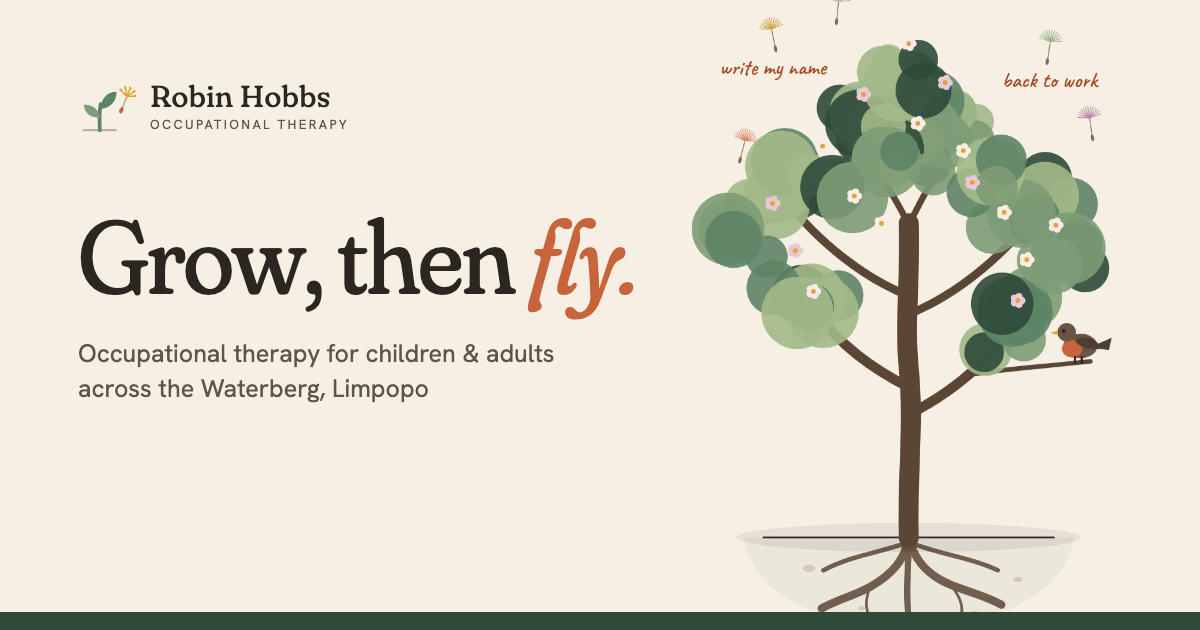
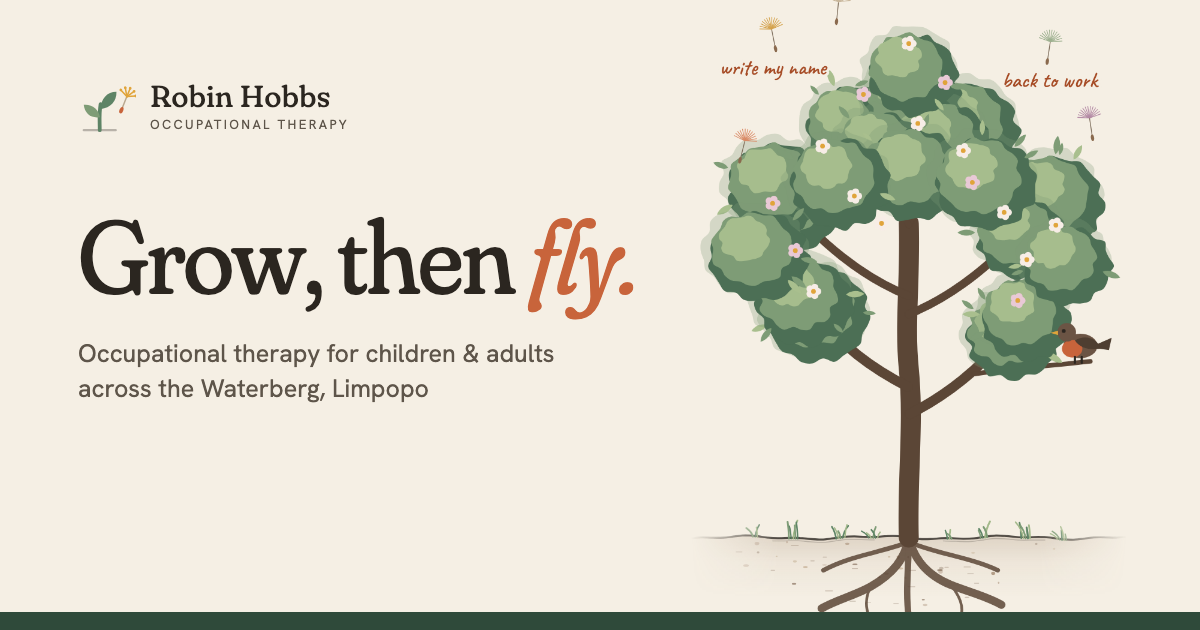
Hero polish: seedling on natural ground, layered foliage, readable seed words
- First frame: the grey soil bowl is replaced by a hand-drawn soil line with
  crumbs and grass tufts; the ground fades out at the edges of the camera
  view. A two-leaf seedling breaks through at scroll 0 and hands over to the
  trunk as it grows.
- Foliage: layered organic clusters in three greens (soft edge, shadow side,
  mid tone, light side) with single leaves on the outline; same silhouette
  and growth timing, no SVG filters.
- Seed words: drawn on a paper-coloured halo and only shown in open sky
  (off the canopy, headline and caption card, fully on screen in the hero).
- 'Scroll to grow' hides once the tree reaches step 6.
- Share image regenerated with the new tree.

Changed region(s): [[0.555, 0.0302, 0.9558, 0.6032], [0.5858, 0.8143, 0.925, 0.8746]]

diff --git a/src/assets/js/home.js b/src/assets/js/home.js
@@ -21,7 +21,56 @@ const progressOf = el => { const r = el.getBoundingClientRect(); return clamp(-r
 /* ===== TREE (same look as before) ===== */
 const branches = [...treeSvg.querySelectorAll('.br')];
 branches.forEach(b => { const L = b.getTotalLength(); b.style.strokeDasharray = L; b.style.strokeDashoffset = L; b.dataset.l = L; });
-const LEAF_COLS = ['#7E9C76', '#5E8466', '#A3B98A', '#2F4A3A'];
+let seed = 7; const rnd = () => (seed = (seed * 9301 + 49297) % 233280) / 233280;
+const f1 = n => n.toFixed(1);
+/* smooth curve through points (Catmull-Rom → cubic Bézier); closed for leaf clusters, open for the ground */
+function smooth(pts, closed) {
+  const n = pts.length, at = i => pts[closed ? (i + n) % n : Math.max(0, Math.min(n - 1, i))];
+  let d = `M${f1(pts[0][0])} ${f1(pts[0][1])}`;
+  for (let i = 0; i < (closed ? n : n - 1); i++) {
+    const p0 = at(i - 1), p1 = at(i), p2 = at(i + 1), p3 = at(i + 2);
+    d += `C${f1(p1[0] + (p2[0] - p0[0]) / 6)} ${f1(p1[1] + (p2[1] - p0[1]) / 6)} ${f1(p2[0] - (p3[0] - p1[0]) / 6)} ${f1(p2[1] - (p3[1] - p1[1]) / 6)} ${f1(p2[0])} ${f1(p2[1])}`;
+  }
+  return closed ? d + 'Z' : d;
+}
+
+/* ===== GROUND: a hand-drawn soil line with crumbs and grass, soil that fades out (no hard edges) ===== */
+const groundY = x => 606 + 1.5 * Math.sin((x - 300) / 23) + .9 * Math.sin((x - 300) / 8.7);
+{
+  const line = []; for (let x = 60; x <= 540; x += 12) line.push([x, groundY(x)]);
+  const top = smooth(line, false);
+  const soil = document.getElementById('soil'), groundTop = document.getElementById('groundTop');
+  mk('path', {d: `${top}L540 722L60 722Z`, fill: 'url(#soilFade)'}, soil);
+  const CRUMB = ['#8A6A4E', '#B59A78', '#6E5440'];
+  for (let i = 0, made = 0; made < 46 && i < 400; i++) {
+    const x = 300 + (rnd() - .5) * 400, y = 611 + rnd() * 70;
+    if (((x - 300) / 205) ** 2 + ((y - 606) / 76) ** 2 > 1) continue;
+    made++;
+    if (rnd() < .7) mk('ellipse', {cx: f1(x), cy: f1(y), rx: f1(.8 + rnd() * 2.2), ry: f1(.6 + rnd() * 1.4), fill: CRUMB[made % 3], opacity: f1(.25 + rnd() * .35)}, soil);
+    else mk('path', {d: `M${f1(x)} ${f1(y)}h${f1(3 + rnd() * 5)}`, stroke: '#6E5440', 'stroke-width': .9, 'stroke-linecap': 'round', opacity: .3}, soil);
+  }
+  mk('path', {d: top, fill: 'none', stroke: '#2B2620', 'stroke-opacity': .8, 'stroke-width': 2.2, 'stroke-linecap': 'round'}, groundTop);
+  // a second, lighter pencil pass under the line, broken in places
+  [[150, 262], [338, 452]].forEach(([a, b]) => { const pts = []; for (let x = a; x <= b; x += 14) pts.push([x, groundY(x) + 3.2]); mk('path', {d: smooth(pts, false), fill: 'none', stroke: '#2B2620', 'stroke-width': 1, 'stroke-linecap': 'round', opacity: .22}, groundTop); });
+  const BLADE = ['#7E9C76', '#5E8466', '#A3B98A'];
+  [[132, .8], [174, 1.1], [226, .7], [262, .55], [346, .6], [384, 1], [430, .85], [470, .7]].forEach(([bx, size]) => {
+    const n = 3 + Math.floor(rnd() * 3);
+    for (let k = 0; k < n; k++) {
+      const x = bx + (k - n / 2) * 2.4, y = groundY(x) + 1, h = (9 + rnd() * 13) * size, lean = (rnd() - .5) * 12 + (k - n / 2) * 2;
+      mk('path', {d: `M${f1(x)} ${f1(y)}Q${f1(x + lean * .25)} ${f1(y - h * .6)} ${f1(x + lean)} ${f1(y - h)}`, fill: 'none', stroke: BLADE[(k + bx) % 3], 'stroke-width': f1(1.4 + rnd() * .8), 'stroke-linecap': 'round'}, groundTop);
+    }
+  });
+}
+const sprout = document.getElementById('sprout');
+
+/* ===== FOLIAGE: layered organic clusters — soft outer edge, shadow side, mid tone, light side, single leaves ===== */
+const GREEN = {light: '#A9BF8E', mid: '#7E9C76', dark: '#4C6F55'};
+const blob = (cx, cy, r, lobes, amp) => {
+  const ph = rnd() * 6.3, pts = [];
+  for (let i = 0; i < 30; i++) { const a = i / 30 * Math.PI * 2, rr = r * (1 + amp * Math.abs(Math.sin(a * lobes / 2 + ph)) - amp * .5 + (rnd() - .5) * amp * .5); pts.push([cx + Math.cos(a) * rr, cy + Math.sin(a) * rr * .9]); }
+  return smooth(pts, true);
+};
+const LEAF = 'M0 0C3.8-4.6 4-11.5 0-17C-4-11.5-3.8-4.6 0 0Z';
 const clusters = [
   {s: 1, pts: [[410, 380], [195, 355], [425, 360], [180, 340]]},
   {s: 2, pts: [[440, 250], [165, 235], [455, 230], [150, 215], [420, 270]]},
@@ -30,17 +79,22 @@ const clusters = [
 ];
 const leavesG = document.getElementById('leaves');
 const leafEls = [];
-let seed = 7; const rnd = () => (seed = (seed * 9301 + 49297) % 233280) / 233280;
+const addLeaf = (el, s, delay) => { el.classList.add('leaf'); el.style.transitionDelay = delay.toFixed(2) + 's'; el.dataset.s = s; leafEls.push(el); };
 clusters.forEach(c => c.pts.forEach(([x, y]) => {
   const tuft = mk('g', {class: 'tuft'}, leavesG); // sways around its own base
   tuft.style.transformOrigin = `${x}px ${y + 34}px`;
   tuft.style.animationDuration = (3.4 + Math.random() * 1.8).toFixed(2) + 's';
   tuft.style.animationDelay = (-Math.random() * 5).toFixed(2) + 's';
-  for (let k = 0; k < 5; k++) {
-    const r = 18 + rnd() * 22;
-    const el = mk('circle', {cx: x + (rnd() - .5) * 60, cy: y + (rnd() - .5) * 50, r, fill: LEAF_COLS[Math.floor(rnd() * 4)], opacity: .9, class: 'leaf'}, tuft);
-    el.style.transitionDelay = (rnd() * .35) + 's';
-    el.dataset.s = c.s; leafEls.push(el);
+  const R = 46 + rnd() * 10;
+  [[x, y, R * 1.08, 11, .1, GREEN.mid, .28],    // soft outer edge
+   [x + 5, y + 7, R, 11, .12, GREEN.dark, 1],    // shadow side (lower right)
+   [x - 3, y - 2, R * .82, 10, .12, GREEN.mid, 1],
+   [x - 11, y - 13, R * .5, 8, .14, GREEN.light, .95] // light side (upper left)
+  ].forEach(([bx, by, r, lobes, amp, fill, op], k) => addLeaf(mk('path', {d: blob(bx, by, r, lobes, amp), fill, opacity: op}, tuft), c.s, k * .06 + rnd() * .12));
+  for (let k = 0; k < 3; k++) { // single leaves on the outline, mostly the upper and outer side
+    const a = -Math.PI / 2 + (rnd() - .5) * Math.PI * 1.6, px = x + Math.cos(a) * R * .98, py = y + Math.sin(a) * R * .86;
+    const at = mk('g', {transform: `translate(${f1(px)} ${f1(py)}) rotate(${(a * 57.3 + 90).toFixed(0)}) scale(${(.8 + rnd() * .5).toFixed(2)})`}, tuft);
+    addLeaf(mk('path', {d: LEAF, fill: k % 2 ? GREEN.light : GREEN.mid}, at), c.s, .25 + rnd() * .2);
   }
 }));
 
@@ -66,6 +120,7 @@ new IntersectionObserver(([e]) => hero.classList.toggle('live', e.isIntersecting
 const TOP = [[0, 430], [1, 300], [1.5, 200], [2.5, 125], [3.5, 70], [4.5, 22], [5, 10]];
 const topAt = s => { for (let i = 1; i < TOP.length; i++) if (s <= TOP[i][0]) { const [a, ya] = TOP[i - 1], [b, yb] = TOP[i]; return lerp(ya, yb, (s - a) / (b - a)); } return TOP.at(-1)[1]; };
 let aspect = 1;
+const fadeX = document.getElementById('fadeX');
 const measure = () => { aspect = treeSvg.clientWidth / Math.max(1, treeSvg.clientHeight) || 1; };
 function camera(s) {
   const bottom = 714, needW = lerp(250, 460, clamp(s / 4.5));
@@ -73,6 +128,7 @@ function camera(s) {
   h = Math.max(h, needW / aspect);
   const w = h * aspect;
   treeSvg.setAttribute('viewBox', `${(300 - w / 2).toFixed(1)} ${(bottom - h).toFixed(1)} ${w.toFixed(1)} ${h.toFixed(1)}`);
+  fadeX.setAttribute('x1', Math.max(60, 300 - w / 2).toFixed(1)); fadeX.setAttribute('x2', Math.min(540, 300 + w / 2).toFixed(1));
 }
 
 /* ===== robin: lands at "Independence", flies off with the seeds at the end ===== */
@@ -130,13 +186,23 @@ function drawSeed(ctx, color, scale) {
   }
   ctx.restore();
 }
-function makeSprite(color, word) {
-  const s = sky.dpr, w = word ? 140 : 44, h = word ? 76 : 50;
+function makeSprite(color) {
+  const s = sky.dpr, w = 44, h = 50;
   const c = document.createElement('canvas'); c.width = w * s; c.height = h * s;
   const x = c.getContext('2d'); x.scale(s, s); x.translate(w / 2, 24);
   drawSeed(x, color, 1);
-  if (word) { x.font = '600 17px Caveat, cursive'; x.textAlign = 'center'; x.fillStyle = 'rgba(166,75,37,.9)'; x.fillText(word, 0, 42); }
   return {c, w, h, ox: w / 2, oy: 24};
+}
+/* the handwritten word hangs under its seed, on a soft paper-coloured halo so it reads over anything */
+function makeWordSprite(word) {
+  const s = sky.dpr, w = 150, h = 36;
+  const c = document.createElement('canvas'); c.width = w * s; c.height = h * s;
+  const x = c.getContext('2d'); x.scale(s, s);
+  x.font = '600 17px Caveat, cursive'; x.textAlign = 'center'; x.lineJoin = 'round';
+  x.shadowColor = 'rgba(245,239,228,.95)'; x.shadowBlur = 9;
+  x.strokeStyle = 'rgba(245,239,228,.92)'; x.lineWidth = 6; x.strokeText(word, w / 2, 24);
+  x.shadowBlur = 0; x.fillStyle = 'rgba(166,75,37,.95)'; x.fillText(word, w / 2, 24);
+  return {c, w, h, ox: w / 2, oy: 24 - 42, hw: Math.min(w, x.measureText(word).width + 16) / 2}; // baseline 42px under the seed
 }
 function setupSky() {
   if (reduce || sky.canvas) return;
@@ -148,7 +214,7 @@ function setupSky() {
   size(); addEventListener('resize', size);
   (document.fonts ? document.fonts.load('600 17px Caveat') : Promise.resolve()).catch(() => {}).then(() => {
     sky.sprites = FLUFF.map(col => makeSprite(col));
-    sky.wordSprites = WORDS.map((wd, i) => makeSprite(FLUFF[i % FLUFF.length], wd));
+    sky.wordSprites = WORDS.map(makeWordSprite);
     sky.ready = true;
   });
   if (fine) addEventListener('pointermove', e => { sky.userWind = clamp(sky.userWind + e.movementX * .012, -1.6, 1.6); }, {passive: true});
@@ -163,12 +229,28 @@ function spawnSeed(now, word) {
   sky.seeds.push({
     x: p.x + (Math.random() - .5) * 16, y: p.y, vx: -.2, vy: -.15, born: now, life: (wordSprite ? 20000 : 15000) + Math.random() * 5000,
     k: wordSprite ? .75 : .8 + Math.random() * .5, phase: Math.random() * 6.28,
-    spr: wordSprite || sky.sprites[Math.floor(Math.random() * sky.sprites.length)],
-    sc: wordSprite ? 1 : .8 + Math.random() * .45, word: !!wordSprite,
+    spr: sky.sprites[Math.floor(Math.random() * sky.sprites.length)],
+    sc: wordSprite ? 1 : .8 + Math.random() * .45, word: wordSprite, wa: 0,
   });
+}
+/* words only show in open sky: not over the canopy (an ellipse inside its box), the headline or the caption card */
+const caption = hero.querySelector('.caption'), heading = hero.querySelector('h1'), stage = hero.querySelector('.stage');
+function obstacles() {
+  const l = leavesG.getBoundingClientRect(), st = stage.getBoundingClientRect();
+  return {ell: {cx: l.left + l.width / 2, cy: l.top + l.height / 2, rx: l.width / 2, ry: l.height / 2},
+    rects: [caption, heading].map(e => e.getBoundingClientRect()).filter(r => r.width),
+    area: {left: 4, right: innerWidth - 4, top: Math.max(st.top, 0), bottom: Math.min(st.bottom, innerHeight)}}; // whole word on screen, inside the hero
+}
+function inOpenSky(d, ob) {
+  const hw = d.word.hw * d.sc, cx = d.x, cy = d.y + 36 * d.sc, hh = 12, pad = 8;
+  const {ell, area} = ob, rx = ell.rx + hw + pad, ry = ell.ry + hh + pad;
+  if (cx - hw < area.left || cx + hw > area.right || cy - hh < area.top || cy + hh > area.bottom) return false;
+  if (ell.rx && ((cx - ell.cx) / rx) ** 2 + ((cy - ell.cy) / ry) ** 2 < 1) return false;
+  return !ob.rects.some(r => cx + hw + pad > r.left && cx - hw - pad < r.right && cy + hh + pad > r.top && cy - hh - pad < r.bottom);
 }
 function skyFrame(now) {
   const S = sky, ctx = S.ctx, dt = clamp((now - S.last) / 16.7, 0, 3); S.last = now;
+  let ob = null; // measured once per frame, only if a word seed is on screen
   // wind: gentle base breeze to the left + slow gusts + the visitor (mouse on desktop, swipe speed on phones)
   const v = scrollY - S.lastY; S.lastY = scrollY; S.scrollV = lerp(S.scrollV, v, .3);
   if (!fine) S.userWind = clamp(S.userWind - Math.abs(S.scrollV) * .01 * dt, -1.6, 1.6);
@@ -193,6 +275,10 @@ function skyFrame(now) {
     ctx.setTransform(S.dpr * d.sc * Math.cos(rot), S.dpr * d.sc * Math.sin(rot), -S.dpr * d.sc * Math.sin(rot), S.dpr * d.sc * Math.cos(rot), d.x * S.dpr, d.y * S.dpr);
     ctx.globalAlpha = a;
     ctx.drawImage(d.spr.c, -d.spr.ox, -d.spr.oy, d.spr.w, d.spr.h);
+    if (d.word) {
+      d.wa += ((inOpenSky(d, ob ||= obstacles()) ? 1 : 0) - d.wa) * clamp(.1 * dt);
+      if (d.wa > .02) { ctx.globalAlpha = a * d.wa; ctx.drawImage(d.word.c, -d.word.ox, -d.word.oy, d.word.w, d.word.h); }
+    }
   }
   ctx.globalAlpha = 1;
   if (S.seeds.length || S.queue > 0) requestAnimationFrame(skyFrame); else { S.running = false; ctx.setTransform(1, 0, 0, 1, 0, 0); ctx.clearRect(0, 0, S.canvas.width, S.canvas.height); }
@@ -215,7 +301,7 @@ function stillSeeds() {
     mk('ellipse', {cy: 16, rx: 1.8, ry: 3.8, fill: '#8A6A4E'}, s);
     const f = mk('g', {stroke: FLUFF[i % FLUFF.length], 'stroke-width': .85, 'stroke-linecap': 'round'}, s);
     for (let a = -78; a <= 78; a += 13) { const q = a * Math.PI / 180; mk('path', {d: `M0 -6 L${(Math.sin(q) * 13).toFixed(1)} ${(-6 - Math.cos(q) * 13).toFixed(1)}`}, f); }
-    if (word) { const t = mk('text', {y: 44, 'text-anchor': 'middle', 'font-family': 'Caveat, cursive', 'font-weight': 600, 'font-size': 24, fill: '#A64B25', transform: `rotate(${-r * 57})`}, s); t.textContent = word; }
+    if (word) { const t = mk('text', {y: 44, 'text-anchor': 'middle', 'font-family': 'Caveat, cursive', 'font-weight': 600, 'font-size': 24, fill: '#A64B25', stroke: '#F5EFE4', 'stroke-width': 6, 'stroke-linejoin': 'round', 'paint-order': 'stroke', transform: `rotate(${-r * 57})`}, s); t.textContent = word; }
   });
 }
 
@@ -232,6 +318,8 @@ function frame() {
   if (meterNum.textContent !== String(cur + 1)) meterNum.textContent = cur + 1;
   camera(s);
   hero.classList.toggle('leafy', s >= 1.4);
+  hero.classList.toggle('done', cur === 5); // hides "Scroll to grow"
+  sprout.style.opacity = (1 - clamp((s - .55) / .35)).toFixed(2);
   lede.style.opacity = narrow.matches ? (1 - clamp((s - .15) / .7)).toFixed(2) : '';
   setBird(reduce ? 1 : s >= 6.25 ? 2 : s >= 5.25 ? 1 : s < 5.05 ? 0 : bTarget);
   release(s, now);

diff --git a/src/index.html b/src/index.html
@@ -34,10 +34,18 @@ schema: business
     </div>
     <div class="tree-wrap">
     <svg id="tree" viewBox="0 0 600 712" role="img" aria-label="A tree grows from its roots to full bloom; at the end it releases seeds into the wind and a robin flies off with them">
-      <!-- underground cut-away: seed + roots (step 1, assessment) -->
-      <path d="M118 606 H482 C474 664 404 704 300 704 C196 704 126 664 118 606Z" fill="#2B2620" opacity=".045"/>
-      <g fill="#CDBFA6" opacity=".7"><ellipse cx="190" cy="640" rx="7" ry="4"/><ellipse cx="420" cy="652" rx="5" ry="3"/><ellipse cx="248" cy="684" rx="4" ry="2.5"/><ellipse cx="372" cy="690" rx="6" ry="3.5"/></g>
-      <ellipse id="seedling" cx="300" cy="616" rx="9" ry="6" fill="#C9A15A"/>
+      <defs>
+        <linearGradient id="soilFade" gradientUnits="userSpaceOnUse" x1="0" y1="606" x2="0" y2="672">
+          <stop offset="0" stop-color="#8A6A4E" stop-opacity=".2"/><stop offset=".4" stop-color="#8A6A4E" stop-opacity=".07"/><stop offset="1" stop-color="#8A6A4E" stop-opacity="0"/>
+        </linearGradient>
+        <!-- the ground dissolves at the edges of whatever the camera shows (x1/x2 follow the camera in home.js) -->
+        <linearGradient id="fadeX" gradientUnits="userSpaceOnUse" x1="60" y1="0" x2="540" y2="0">
+          <stop offset="0" stop-color="#000"/><stop offset=".2" stop-color="#fff"/><stop offset=".8" stop-color="#fff"/><stop offset="1" stop-color="#000"/>
+        </linearGradient>
+        <mask id="groundMask" maskUnits="userSpaceOnUse" x="-300" y="380" width="1200" height="360"><rect x="-300" y="380" width="1200" height="360" fill="url(#fadeX)"/></mask>
+      </defs>
+      <!-- ground (drawn by home.js): soft soil that fades out, crumbs, then roots (step 1, assessment) -->
+      <g id="soil" mask="url(#groundMask)"></g>
       <g fill="none" stroke="#5B4636" stroke-linecap="round" opacity=".85">
         <path class="br root" data-s="0" data-d=".8" stroke-width="9" d="M300 606 C296 630 282 646 258 660 C240 670 222 674 204 684"/>
         <path class="br root" data-s=".05" data-d=".8" stroke-width="9" d="M300 606 C306 632 322 648 346 658 C366 666 384 670 402 680"/>
@@ -47,8 +55,15 @@ schema: business
         <path class="br root" data-s=".45" data-d=".55" stroke-width="3" d="M258 660 C252 672 252 682 256 692"/>
         <path class="br root" data-s=".5" data-d=".5" stroke-width="3" d="M346 658 C356 670 360 680 358 690"/>
       </g>
-      <ellipse cx="300" cy="606" rx="190" ry="16" fill="#2B2620" opacity=".08"/>
-      <path d="M140 606 H460" stroke="#2B2620" stroke-width="2" stroke-linecap="round"/>
+      <!-- hand-drawn soil line + grass tufts (drawn by home.js) -->
+      <g id="groundTop" mask="url(#groundMask)"></g>
+      <!-- the seedling already breaking through at scroll 0; fades as the trunk takes over -->
+      <g id="sprout">
+        <path d="M300 607 C300 598 299 590 300.5 580" fill="none" stroke="#5E8466" stroke-width="3" stroke-linecap="round"/>
+        <path d="M300.5 582 C294 571 283 567 271 570 C276 581 289 586 300.5 582Z" fill="#7E9C76"/>
+        <path d="M301 580 C306 567 318 561 332 563 C328 576 315 583 301 580Z" fill="#A3B98A"/>
+        <path d="M299.5 581 C292 575 284 572 277 572 M302 579 C309 572 318 567 326 566" fill="none" stroke="#5E8466" stroke-width=".9" stroke-linecap="round" opacity=".55"/>
+      </g>
       <g fill="none" stroke="#5B4636" stroke-linecap="round">
         <path class="br" data-s=".45" data-d=".95" stroke-width="22" d="M300 606 C298 540 306 480 300 420 C295 370 302 320 300 260"/>
         <path class="br" data-s="1" stroke-width="11" d="M301 470 C340 450 380 420 410 380"/>

diff --git a/src/assets/css/home.css b/src/assets/css/home.css
@@ -48,13 +48,17 @@ body:has(.ribbon){--ribbon-h:38px}
 .hero li span{display:none;font-size:.98rem;color:var(--ink-soft);max-width:38ch;margin-top:.2rem}
 .hero li.cur span{display:block;animation:capIn .45s cubic-bezier(.2,.7,.2,1)}
 @keyframes capIn{from{opacity:0;transform:translateY(6px)}}
-.hero .hint{margin-top:var(--sp-3);font-size:.85rem;color:var(--ink-soft)}
+.hero .hint{margin-top:var(--sp-3);font-size:.85rem;color:var(--ink-soft);transition:opacity .4s}
+.hero.done .hint,.hero.done .lede::after{opacity:0} /* the tree is grown: nothing left to scroll for */
 .hero .hint::before{content:"↓";display:inline-block;margin-right:.5rem;color:var(--terra);animation:nudge 1.6s ease-in-out infinite}
 @keyframes nudge{50%{transform:translateY(4px)}}
 .tree-wrap{height:calc(100% - 2rem);min-height:0}
 #tree{width:100%;height:100%;display:block}
 #tree .leaf{transform-box:fill-box;transform-origin:center;transform:scale(0);transition:transform .6s cubic-bezier(.3,1.6,.5,1)}
 #tree .leaf.on{transform:scale(1)}
+#sprout{transform-box:view-box;transform-origin:300px 607px;animation:sprout-sway 5s ease-in-out infinite;animation-play-state:paused;transition:opacity .3s}
+.hero.live #sprout{animation-play-state:running}
+@keyframes sprout-sway{0%,100%{transform:rotate(-2deg)}50%{transform:rotate(2.5deg)}}
 #tree .bloom{transform-box:fill-box;transform-origin:center;transform:scale(0);transition:transform .5s cubic-bezier(.3,1.7,.5,1)}
 #tree .bloom.on{transform:scale(1)}
 /* short desktop windows: tighten the left column so the list never runs off the bottom */
@@ -90,7 +94,7 @@ body:has(.ribbon){--ribbon-h:38px}
   .hero li span,.hero li.cur span{display:block;grid-column:1/-1;font-size:1rem;line-height:1.5;margin-top:.45rem;max-width:none;animation:none}
   /* while the tree is only roots, the lede sits in the empty sky, then fades as the trunk rises */
   .hero .lede{grid-row:3;grid-column:1;align-self:start;z-index:1;margin-top:.6rem;font-size:1.02rem;max-width:34ch;pointer-events:none}
-  .hero .lede::after{content:"Scroll to grow ↓";display:block;margin-top:.5rem;font-size:.85rem;color:var(--terra-ink)}
+  .hero .lede::after{content:"Scroll to grow ↓";display:block;margin-top:.5rem;transition:opacity .4s;font-size:.85rem;color:var(--terra-ink)}
   .hero .steps-label,.hero .hint{display:none}
 }
 @media(max-width:860px) and (max-height:680px){.hero .copy > .eyebrow:first-child{display:none}.hero .lede{font-size:.95rem;max-width:none;margin-top:.6rem}.hero .lede::after{margin-top:.4rem}.hero li b{font-size:1.25rem}.hero li span,.hero li.cur span{font-size:.95rem;margin-top:.3rem}}

diff --git a/README.md b/README.md
@@ -60,9 +60,9 @@ node tools/hero-frames.mjs 390 844 screenshots/hero        # hero frames (add 'r
 ## Home hero: "Grow, then fly"
 
 The growing tree is the hero (`src/index.html` + `src/assets/js/home.js`):
-- Scroll grows it roots first (Listen & assess), then the trunk, branches and leaves. A "camera" starts close on the roots and pulls back as the tree grows, so a phone screen is never mostly empty. On phones the lede sits in the early sky and fades as the trunk rises.
+- It opens on a seedling breaking through a hand-drawn soil line with grass (the ground fades out at the edges of whatever the camera shows, via the `fadeX` mask). Scroll grows it roots first (Listen & assess), then the trunk takes over from the seedling, then branches and foliage. The foliage is generated in `home.js`: each cluster is a soft outer edge, a shadow side, a mid tone, a light side and a few single leaves (no SVG filters, so it stays light on phones). A "camera" starts close on the roots and pulls back as the tree grows, so a phone screen is never mostly empty. On phones the lede sits in the early sky and fades as the trunk rises.
 - The six therapy steps are captions: a list beside the tree on desktop (the current step sits on a soft card), and on phones a paper caption card under the tree with the step number, title, description and a 6-step progress bar, kept clear of the WhatsApp button.
-- At "Independence" a robin lands, the tree blossoms and dandelion seeds lift off on the wind. They're drawn on one canvas layer from pre-rendered sprites, capped at 14 on mobile and 28 on desktop. Six seeds carry handwritten wins ("write my name", "back to work"…; four on mobile). The wind follows the mouse on desktop and the swipe/scroll speed on phones. At the very end the robin flies off with the seeds.
+- At "Independence" a robin lands, the tree blossoms and dandelion seeds lift off on the wind. They're drawn on one canvas layer from pre-rendered sprites, capped at 14 on mobile and 28 on desktop. Six seeds carry handwritten wins (each word only fades in once it's in open sky: off the canopy, the headline and the caption card, and fully on screen, on a paper-coloured halo) ("write my name", "back to work"…; four on mobile). The wind follows the mouse on desktop and the swipe/scroll speed on phones. At the very end the robin flies off with the seeds.
 - Three seeds float down into later sections (beside each chapter and in the contact section) and sprout, using CSS transform/opacity only.
 - Reduced motion: the grown tree with a few seeds already in the air and the robin perched; nothing moves.
 - Leaves only rustle once they exist and while the tree is on screen.
